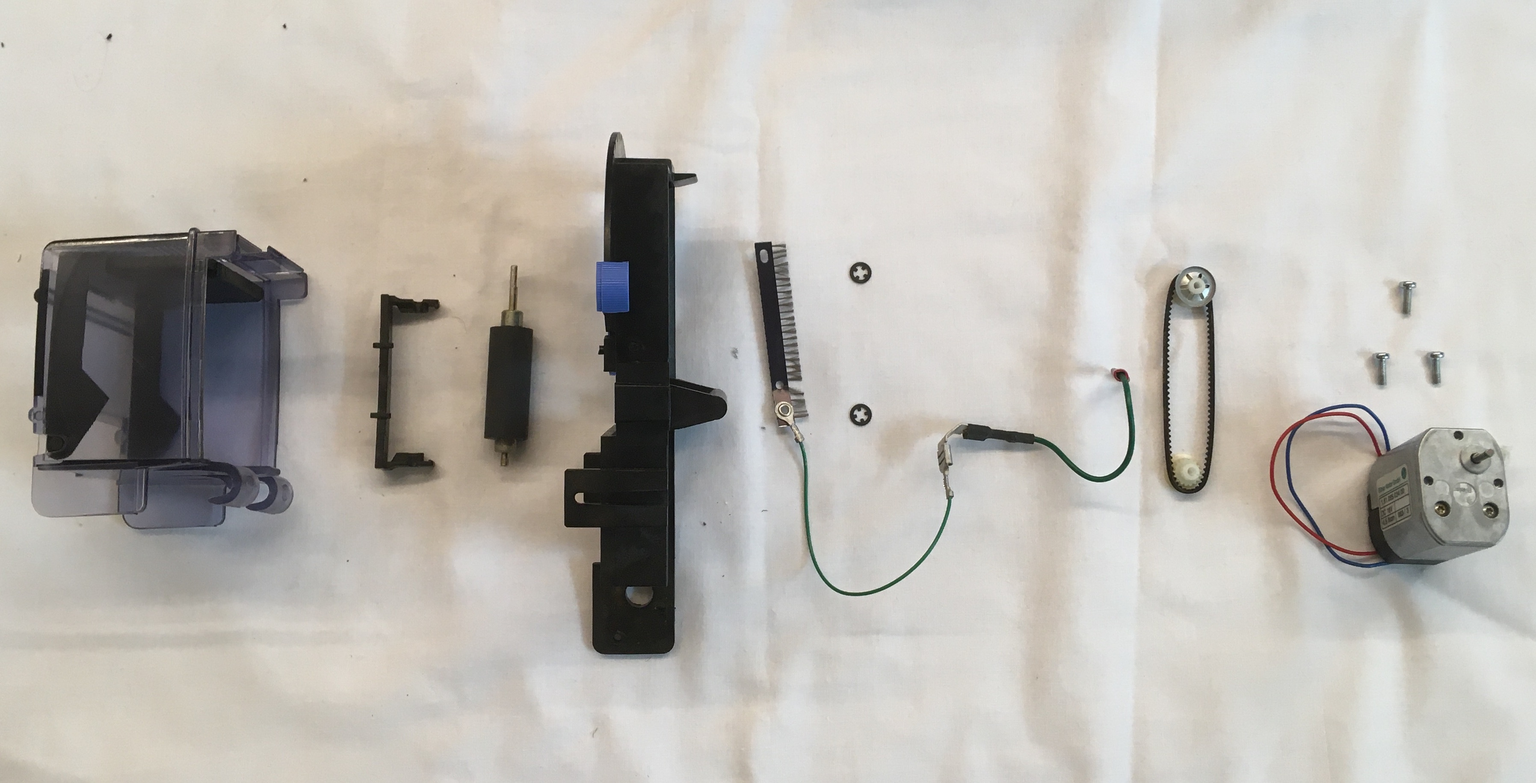
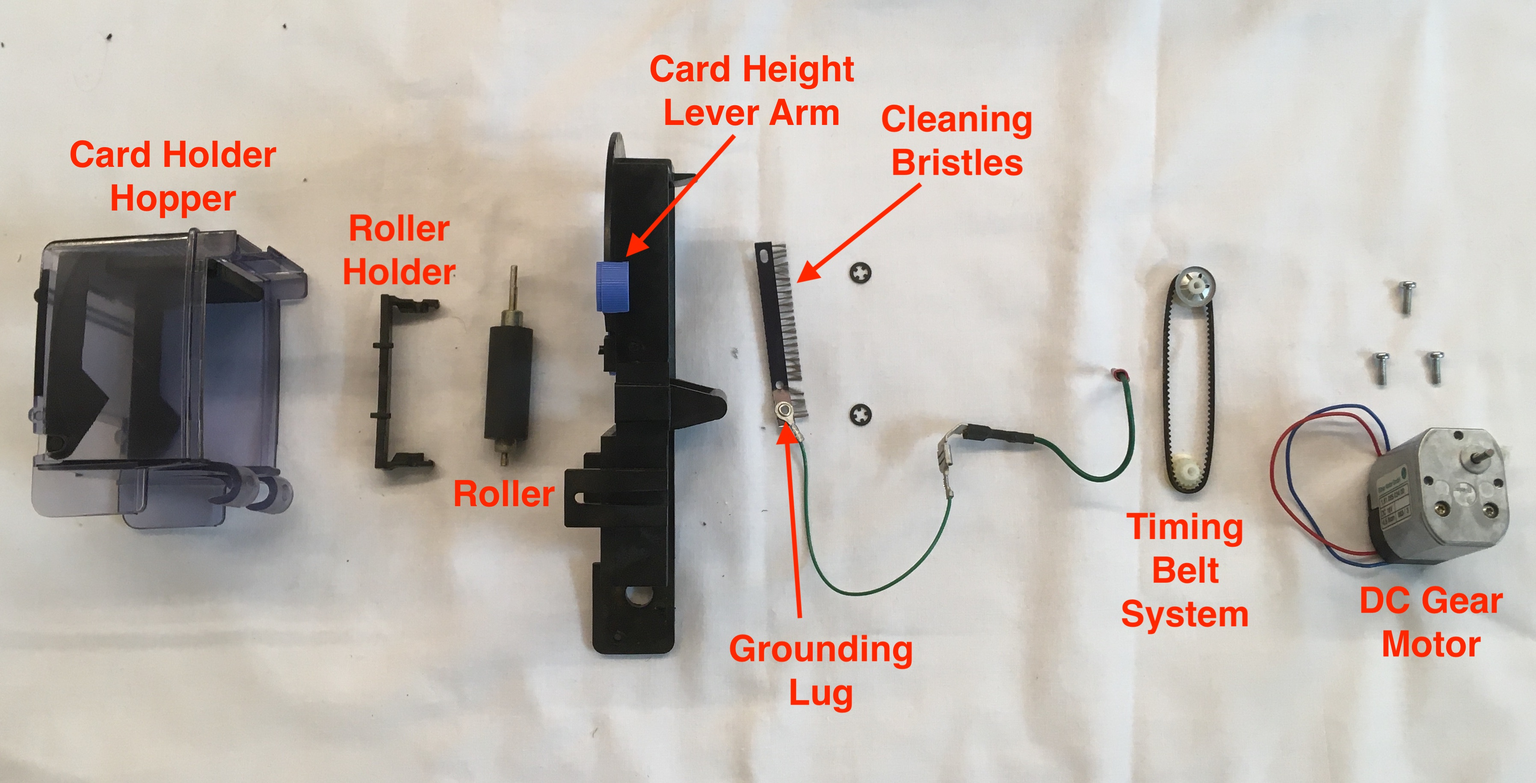
finished rollers

diff --git a/teardowns/IDprinter.html b/teardowns/IDprinter.html
@@ -262,7 +262,7 @@
 <hr>
 <section>
 	<h3>Entry Unit</h3>
-	<p>&emsp;&emsp;The entry unit is used to control the thickness of cards permitted to enter the machine. Based on its relatively simple design which only obstructs cards that are too thick from passing, it seems like cards thinner than the desired setting would still be allowed to pass. Since this unit contains no sensor to communicate to the rest of the printer what thickness card is being inserted, it seems unlikely that the rest of the printer would be adjusting its process in any way to account for cards of different sizes. Instead, it's more likely the entry unit serves to reduce the likelihood of multiple cards being sent into the printer simulatenously which could generate unpredictable issues within the printer that might jam the system.</p>
+	<p>&emsp;&emsp;The entry unit is used to bring blank ID cards into the machine and has a relatively simple design. Cards are stacked magnetic strip down in the card holder hopper transparent plastic piece. To bring in a card, the motor located at the bottom of the component drives a timing belt causing the roller located at the bottom of the card stack to begin rotating. Due to the somewhat adhesive nature of the rubber used for the roller this causes a card to be pulled into the machine through a set of cleaning bristles and card height lever arm. As the card height lever arm is rotated, more or less space can be provided for the card to travel through. This design isn't foolproof as it only obstructs cards that are too thick or a stack of multiple cards from passing, cards thinner than the desired setting would still be allowed to pass. Since this unit contains no sensor to communicate to the rest of the printer what thickness card is being inserted, it seems unlikely that the rest of the printer would be adjusting its process in any way to account for cards of different sizes. Instead, it's more likely the card height lever arm serves to reduce the likelihood of multiple cards being sent into the printer simulatenously which might jam the system.</p>
 	<div class="doubleRowImage">
 		<img src="../images/teardowns/IDprinter/entryUnitFront.jpg" alt="Entrance Gap Covered in Bristles and with Depth Adjusted by Cam Mechanism">
 		<p class="label">Entry Unit - Back View</p>
@@ -272,7 +272,7 @@
 		<p class="label">Entry Unit - Side View</p>
 	</div>
 	<img src="../images/teardowns/IDprinter/entryUnitSlots.jpg" alt="Small Circular Holes at Different Angles to Set Accepted Card Thickness" class="center">
-	<p class="label">Entry Unit Card Width Adjustment Slots</p>
+	<p class="label">Entry Unit Card Height Adjustment Slots</p>
 	<div class="doubleRowImage">
 		<img src="../images/teardowns/IDprinter/entryTight.jpg" alt="Cam Mechanism Rotated Fully Downward">
 		<p class="label">Setting for Thinnest Card</p>
@@ -287,13 +287,15 @@
 <hr>
 <section>
 	<h3>Rollers</h3>
+	<p>&emsp;&emsp;Many rollers exist throughout the printer with their fundamental purpose being to drive the ID card through the printer. Powering the DC gear motor at the entry unit, rotates the entry roller bringing the card into the system. After that, the card position in the printer is continuosly monitored by each step of the stepper motor which actuates a timing belt system covering the length of the printer. There are also a series of passive rollers which serve additional functions in the printer such as the cleaning rollers below. The upper cleaning roller is wrapped in typical commerical lint roller tape to pick up dust off the card before it has the opportunity to carry these contaminants deeper into the printer.</p>
 	<img src="../images/teardowns/IDprinter/blueRollers.jpg" alt="Lint Roller and Rubber Roller Secured in Blue Plastic Piece" class="center">
 	<p class="label">Card Cleaning Rollers</p>
 	<img src="../images/teardowns/IDprinter/blueRollersSpring.jpg" alt="Torsion Spring with Unique Ends to Secure Spring and Press it Against Shaft End" class="center">
 	<p class="label">Closeup of Torsion Spring Securing Lint Roller</p>
-	<p>&emsp;&emsp;With just the torsion spring holding the lint roller in place, it can be easily removed and replaced as it accumulates dust over the course of printer operation. It's interesting to note that in addition to the card cleaning rollers, the manual states that the printer also comes with cleaning cards. The cleaning cards are supposed to be fed through the printer when the printer indicates that cleaning is required by flashing the orange and red status indicator lights. The cleaning cards are pre-saturated with cleaning fluid to wipe clean the interior surfaces of the printer feed system including the print head, magnetic encoding station, and rollers.</p>
+	<p>&emsp;&emsp;With just the torsion spring holding the lint roller in place, it can be easily removed and replaced as it accumulates dust over the course of printer operation. It's interesting to note that in addition to the card cleaning rollers, the manual states that the printer also comes with cleaning cards. The cleaning cards are supposed to be fed through the printer when the printer indicates that cleaning is required by flashing the orange and red status indicator lights. The cleaning cards are pre-saturated with cleaning fluid (likely isopropanol) to wipe clean the interior surfaces of the printer feed system including the print head, magnetic encoding station, and rollers.</p>
 	<img src="../images/teardowns/IDprinter/exitRollers.jpg" alt="Small Rollers Held in Place by Torsion Springs" class="center">
 	<p class="label">Rollers Leading Up to Card Exit</p>
+	<p>&emsp;&emsp;At the exit of the print head lies a pair of rollers mounted side by side, each with a torsional spring forcing the roller down onto the passing card. These rollers are used to ensure the card makes good contact with the magnetic encoding unit for best encoding performance.</p>
 	<img src="../images/teardowns/IDprinter/rollers.jpg" alt="Most Rollers in Printer Laid Out in Series According to Order" class="center">
 	<p class="label">Rollers Removed</p>
 </section>
